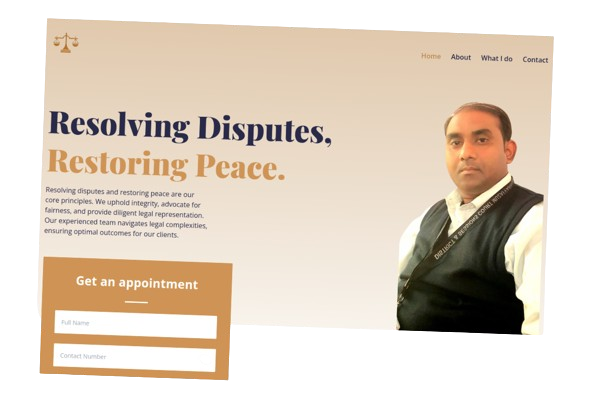
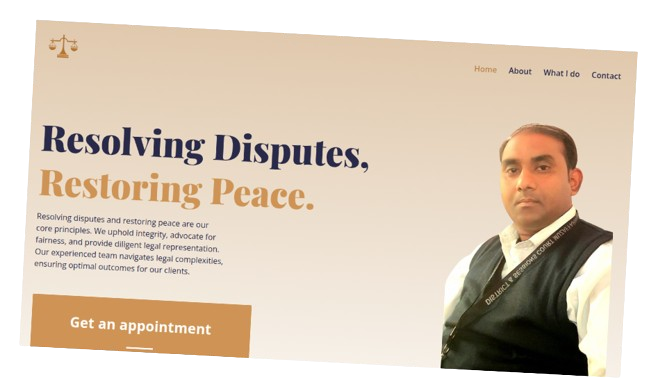
project pngs

diff --git a/src/data/index.ts b/src/data/index.ts
@@ -76,7 +76,7 @@ export const projects = [
     id: 1,
     title: "Hack This Feb",
     des: "A hackathon website created with React and TailwindCSS, providing event information and seamless participant registration.",
-    img: "/p1.png",
+    img: "/p111.png",
     iconLists: ["/re.svg", "/tail.svg", "/javaScript.svg"],
     link: "https://hackthisfeb.netlify.app/",
   },
@@ -84,58 +84,63 @@ export const projects = [
     id: 2,
     title: "Advocate Portfolio",
     des: "An advocate's portfolio built with React and TailwindCSS, showcasing legal expertise and achievements in a sleek, user-friendly design.",
-    img: "/p2.png",
+    img: "/p222.png",
     iconLists: ["/re.svg", "/tail.svg", "/javaScript.svg"],
     link: "https://advamjad.netlify.app/",
   },
   {
     id: 3,
-    title: "AI Image SaaS - Canva Application",
-    des: "A REAL Software-as-a-Service app with AI features and a payments and credits system using the latest tech stack.",
-    img: "/p3.svg",
-    iconLists: ["/re.svg", "/tail.svg", "/ts.svg", "/three.svg", "/c.svg"],
-    link: "https://github.com/adrianhajdin/ai_saas_app",
+    title: "Quizzz",
+    des: "Quizzz is an interactive app for learning about Islam through engaging quizzes. Built with ReactJS and TailwindCSS for a fun, educational experience.",
+    img: "/p333.png",
+    iconLists: ["/re.svg", "/tail.svg", "/javaScript.svg", "/shadcn.svg"],
+    link: "https://islam-quizzz.netlify.app/",
   },
   {
     id: 4,
-    title: "Animated Apple Iphone 3D Website",
-    des: "Recreated the Apple iPhone 15 Pro website, combining GSAP animations and Three.js 3D effects..",
-    img: "/p4.svg",
-    iconLists: ["/next.svg", "/tail.svg", "/ts.svg", "/three.svg", "/gsap.svg"],
-    link: "https://github.com/adrianhajdin/iphone",
+    title: "Blogosphere",
+    des: "Blogosphere is a full-stack blogging app with user authentication, post and comment management, and profile updates. Built with the MERN stack for a seamless user experience.",
+    img: "/p44.png",
+    iconLists: [
+      "/re.svg",
+      "/tail.svg",
+      "/javaScript.svg",
+      "/mongodb.svg",
+      "/nodejs.svg",
+      "/express.svg",
+    ],
+    link: "https://github.com/Sxhil296/Blogosphere",
   },
 ];
 
 export const testimonials = [
   {
     quote:
-      "Collaborating with Adrian was an absolute pleasure. His professionalism, promptness, and dedication to delivering exceptional results were evident throughout our project. Adrian's enthusiasm for every facet of development truly stands out. If you're seeking to elevate your website and elevate your brand, Adrian is the ideal partner.",
-    name: "Michael Johnson",
+      "Working with Sahil on our website was fantastic. His skills in React, Tailwind CSS, and JavaScript made our vision a reality. The site they built is sleek, user-friendly, and exceeded our expectations. Highly recommended for anyone seeking top-notch web development.",
+    name: "HackThisFeb",
     title: "Director of AlphaStream Technologies",
+    img: "/profile.svg",
   },
   {
     quote:
-      "Collaborating with Adrian was an absolute pleasure. His professionalism, promptness, and dedication to delivering exceptional results were evident throughout our project. Adrian's enthusiasm for every facet of development truly stands out. If you're seeking to elevate your website and elevate your brand, Adrian is the ideal partner.",
-    name: "Michael Johnson",
-    title: "Director of AlphaStream Technologies",
+      "Lorem ipsum dolor sit amet consectetur adipisicing elit. Corporis est exercitationem voluptates harum ratione officia quas laboriosam. Consequatur, error porro beatae iusto laboriosam quae minus autem officia ea. Quam nihil dolores repudiandae repellendus dolore incidunt!",
+    name: "Lorem Ipsum",
+    title: "Director of Lorem Ipsum",
+    img: "/profile.svg",
   },
   {
     quote:
-      "Collaborating with Adrian was an absolute pleasure. His professionalism, promptness, and dedication to delivering exceptional results were evident throughout our project. Adrian's enthusiasm for every facet of development truly stands out. If you're seeking to elevate your website and elevate your brand, Adrian is the ideal partner.",
+      "Thanks to Sahil, my legal practice now has a professional and easy-to-use website. He created exactly what I needed, and I'm impressed with his skills and dedication. I highly recommend Sahil for anyone looking to improve their online presence.",
     name: "Michael Johnson",
     title: "Director of AlphaStream Technologies",
+    img: "/profile.svg",
   },
   {
     quote:
-      "Collaborating with Adrian was an absolute pleasure. His professionalism, promptness, and dedication to delivering exceptional results were evident throughout our project. Adrian's enthusiasm for every facet of development truly stands out. If you're seeking to elevate your website and elevate your brand, Adrian is the ideal partner.",
-    name: "Michael Johnson",
-    title: "Director of AlphaStream Technologies",
-  },
-  {
-    quote:
-      "Collaborating with Adrian was an absolute pleasure. His professionalism, promptness, and dedication to delivering exceptional results were evident throughout our project. Adrian's enthusiasm for every facet of development truly stands out. If you're seeking to elevate your website and elevate your brand, Adrian is the ideal partner.",
-    name: "Michael Johnson",
-    title: "Director of AlphaStream Technologies",
+      "Lorem ipsum dolor sit amet consectetur adipisicing elit. Corporis est exercitationem voluptates harum ratione officia quas laboriosam. Consequatur, error porro beatae iusto laboriosam quae minus autem officia ea. Quam nihil dolores repudiandae repellendus dolore incidunt!",
+    name: "Lorem Ipsum",
+    title: "Director of Lorem Ipsum",
+    img: "/profile.svg",
   },
 ];
 

diff --git a/src/app/components/ui/infinite-moving-cards.tsx b/src/app/components/ui/infinite-moving-cards.tsx
@@ -1,5 +1,6 @@
 "use client";
 
+import { testimonials } from "@/data";
 import { cn } from "@/lib/utils";
 import React, { useEffect, useState } from "react";
 
@@ -14,6 +15,7 @@ export const InfiniteMovingCards = ({
     quote: string;
     name: string;
     title: string;
+    img: string;
   }[];
   direction?: "left" | "right";
   speed?: "fast" | "normal" | "slow";
@@ -106,16 +108,16 @@ export const InfiniteMovingCards = ({
               <div className="relative z-20 mt-6 flex flex-row items-center">
                 <span className="flex flex-col gap-1">
                   <div className="me-3">
-                    <img src="/profile.svg" alt="profile" />
+                    <img src={item.img} alt="profile" />
                   </div>
-                 <div className="flex flex-col gap-1">
-                 <span className=" text-xl leading-[1.6] text-white- font-bold">
-                    {item.name}
-                  </span>
-                  <span className=" text-sm leading-[1.6] text-white-200 font-normal">
-                    {item.title}
-                  </span>
-                 </div>
+                  <div className="flex flex-col gap-1">
+                    <span className=" text-xl leading-[1.6] text-white- font-bold">
+                      {item.name}
+                    </span>
+                    <span className=" text-sm leading-[1.6] text-white-200 font-normal">
+                      {item.title}
+                    </span>
+                  </div>
                 </span>
               </div>
             </blockquote>

diff --git a/src/app/components/Hero.tsx b/src/app/components/Hero.tsx
@@ -42,7 +42,7 @@ const Hero = () => {
           <p className="text-center md:tracking-wider mb-4 text-sm md:text-lg lg:text-2xl">
             Hi, I&apos;m Sahil, a Full Stack Developer based in India.
           </p>
-          <a href="#" target="_blank" rel="noopener noreferrer">
+          <a href="#projects" target="_blank" rel="noopener noreferrer">
             <MagicButton
               title="Show My Work"
               icon={<FaLocationArrow />}

diff --git a/src/app/components/RecentProjects.tsx b/src/app/components/RecentProjects.tsx
@@ -27,7 +27,7 @@ const RecentProjects = () => {
                 <img
                   src={item.img}
                   alt="cover"
-                  className="z-10 absolute bottom-0"
+                  className="z-10 absolute bottom-0 rounded-lg"
                 />
               </div>
 

diff --git a/src/app/components/Grid.tsx b/src/app/components/Grid.tsx
@@ -19,6 +19,7 @@ const Grid = () => {
             spareImg={spareImg}
           />
         ))}
+      
       </BentoGrid>
     </section>
   );
